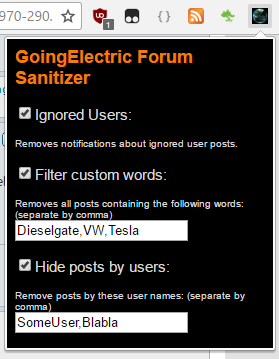
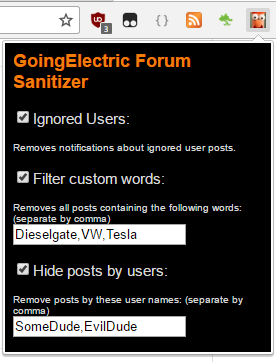
Updated screenshot

Changed region(s): [[0.0, 0.0, 1.0, 1.0], [0.058, 0.4596, 0.6087, 0.5209], [0.058, 0.7047, 0.6087, 0.766]]

diff --git a/README.md b/README.md
@@ -18,7 +18,7 @@ To install the extension follow the following steps:
 
 Usage
 -----
-A new extension icon should appear on the top bar of chrome (the globe), clicking it will allow you to enable a number of extension options. Once you have enabled an option you will need to reload the page for them to take effect.
+A new extension icon should appear on the top bar of chrome (the muppet), clicking it will allow you to enable a number of extension options. Once you have enabled an option you will need to reload the page for them to take effect.
 
 ![Screenshot](forumsanitizer.png)
 
